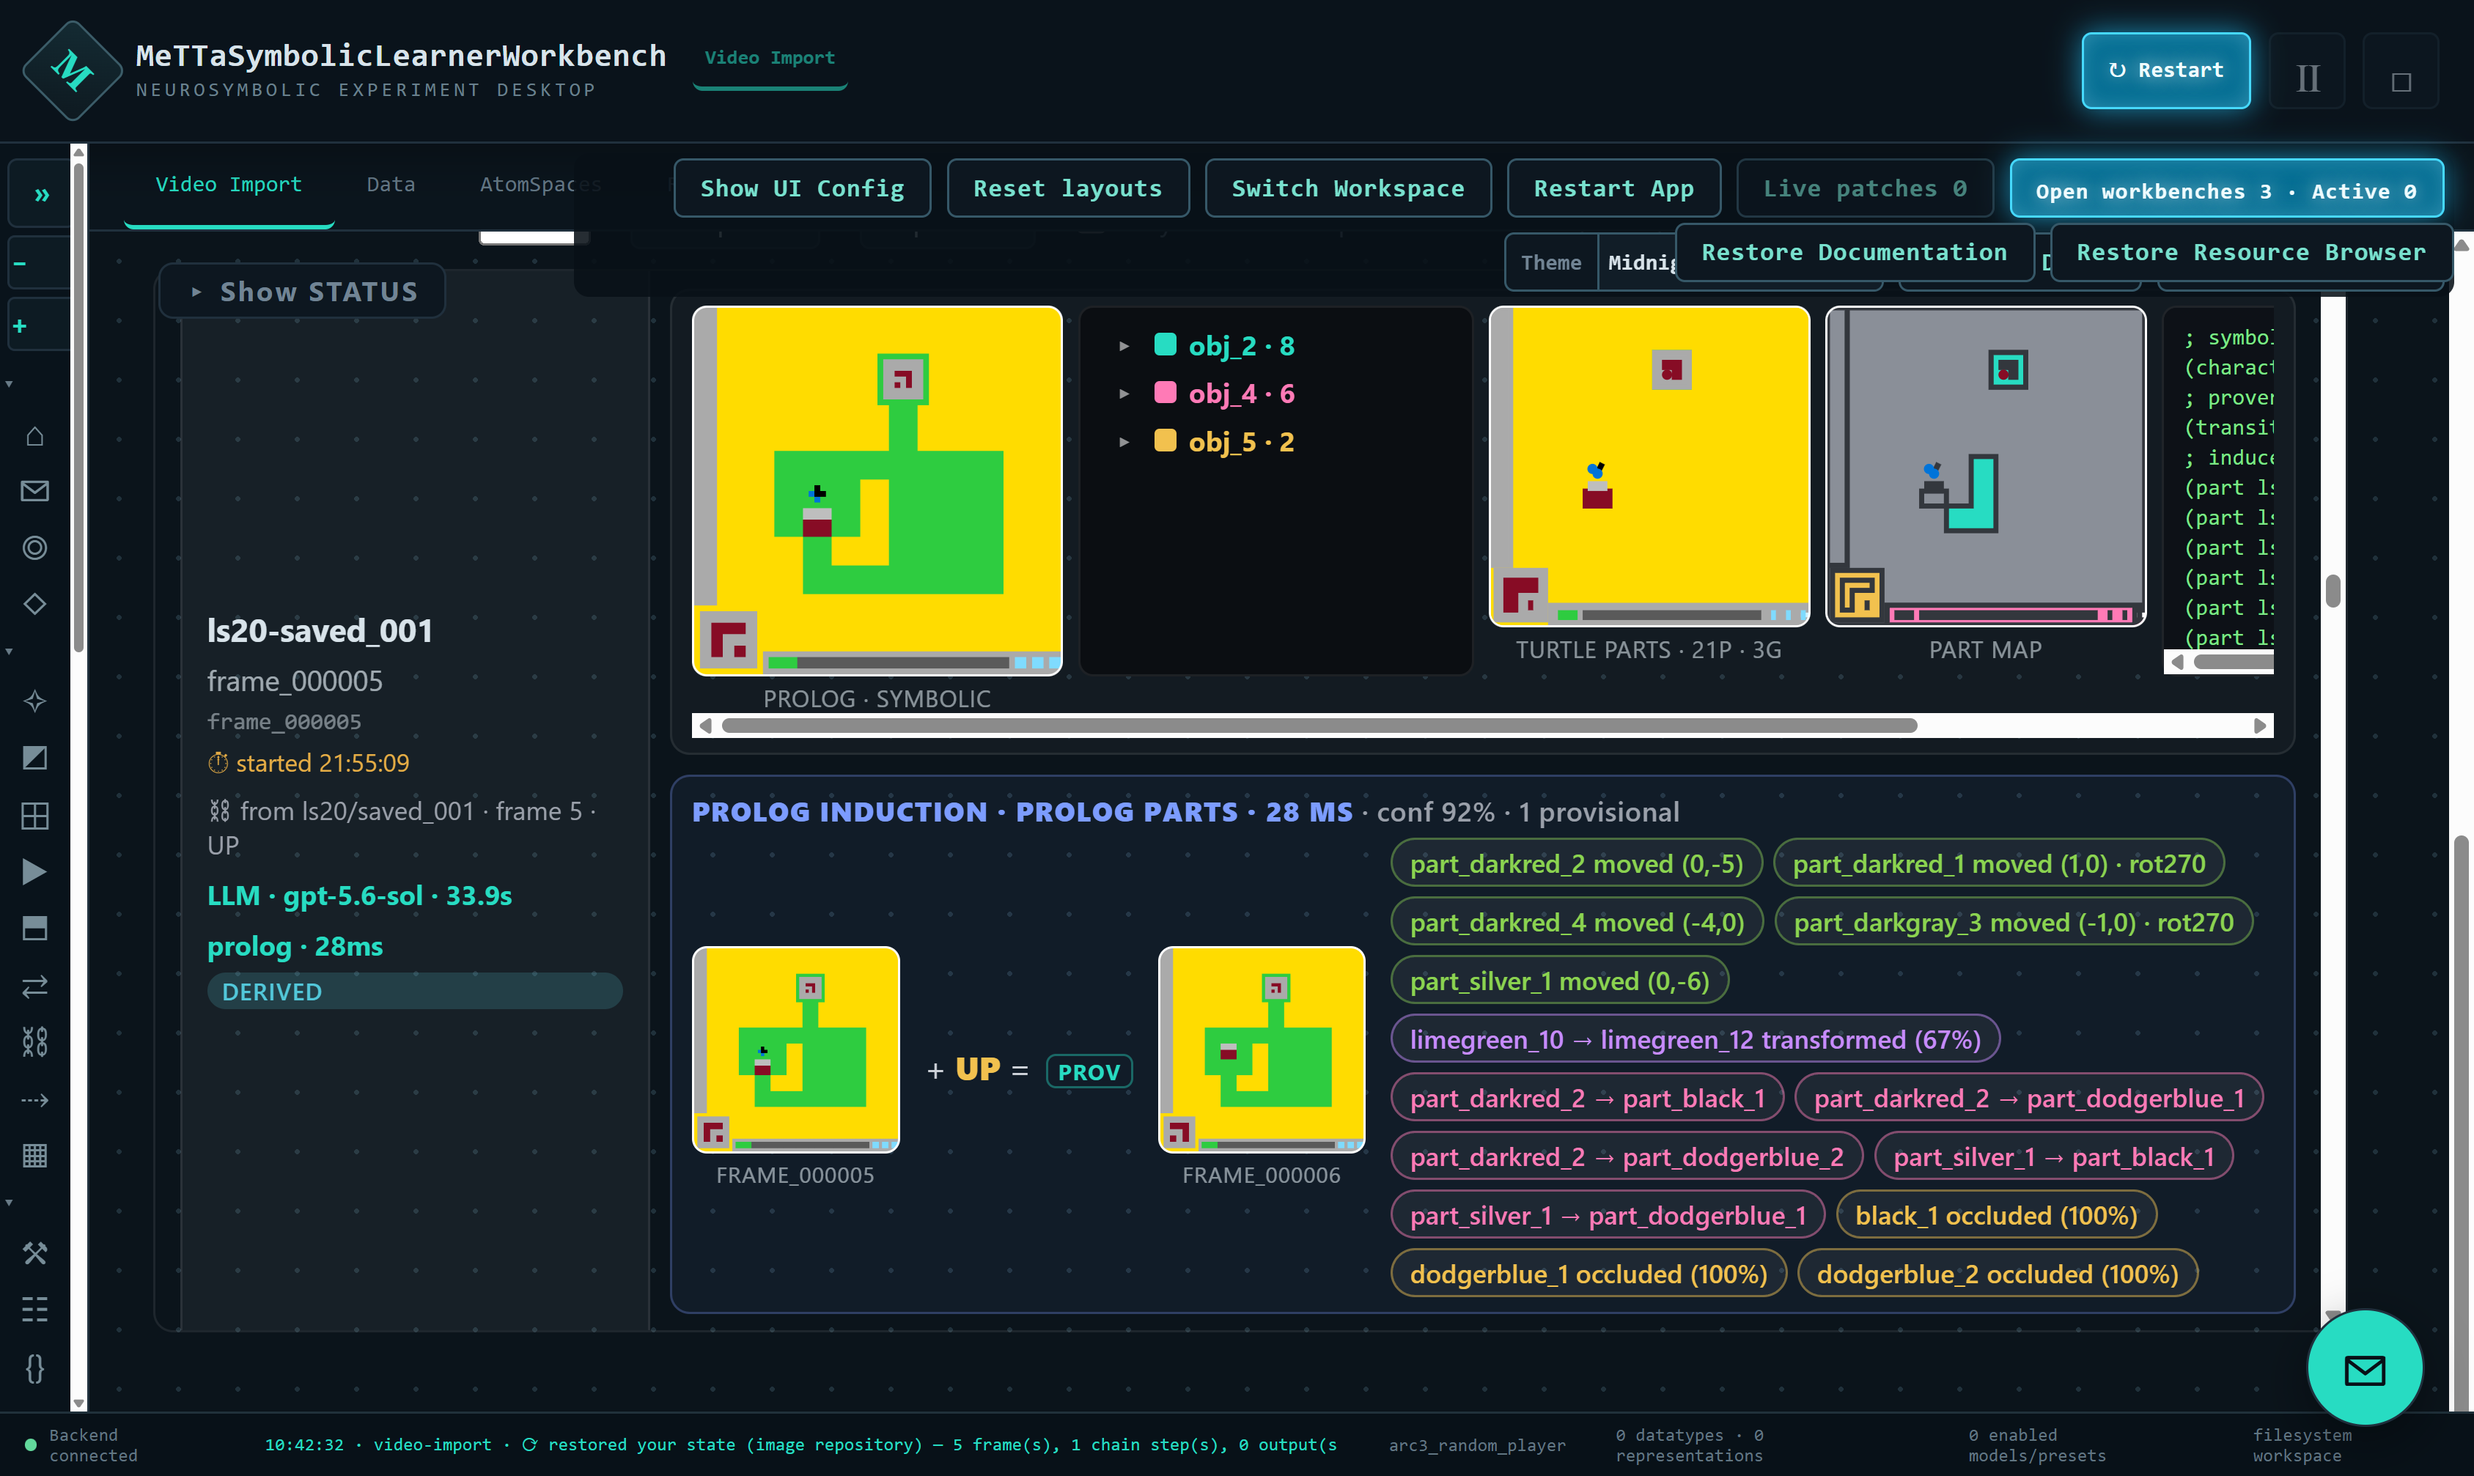
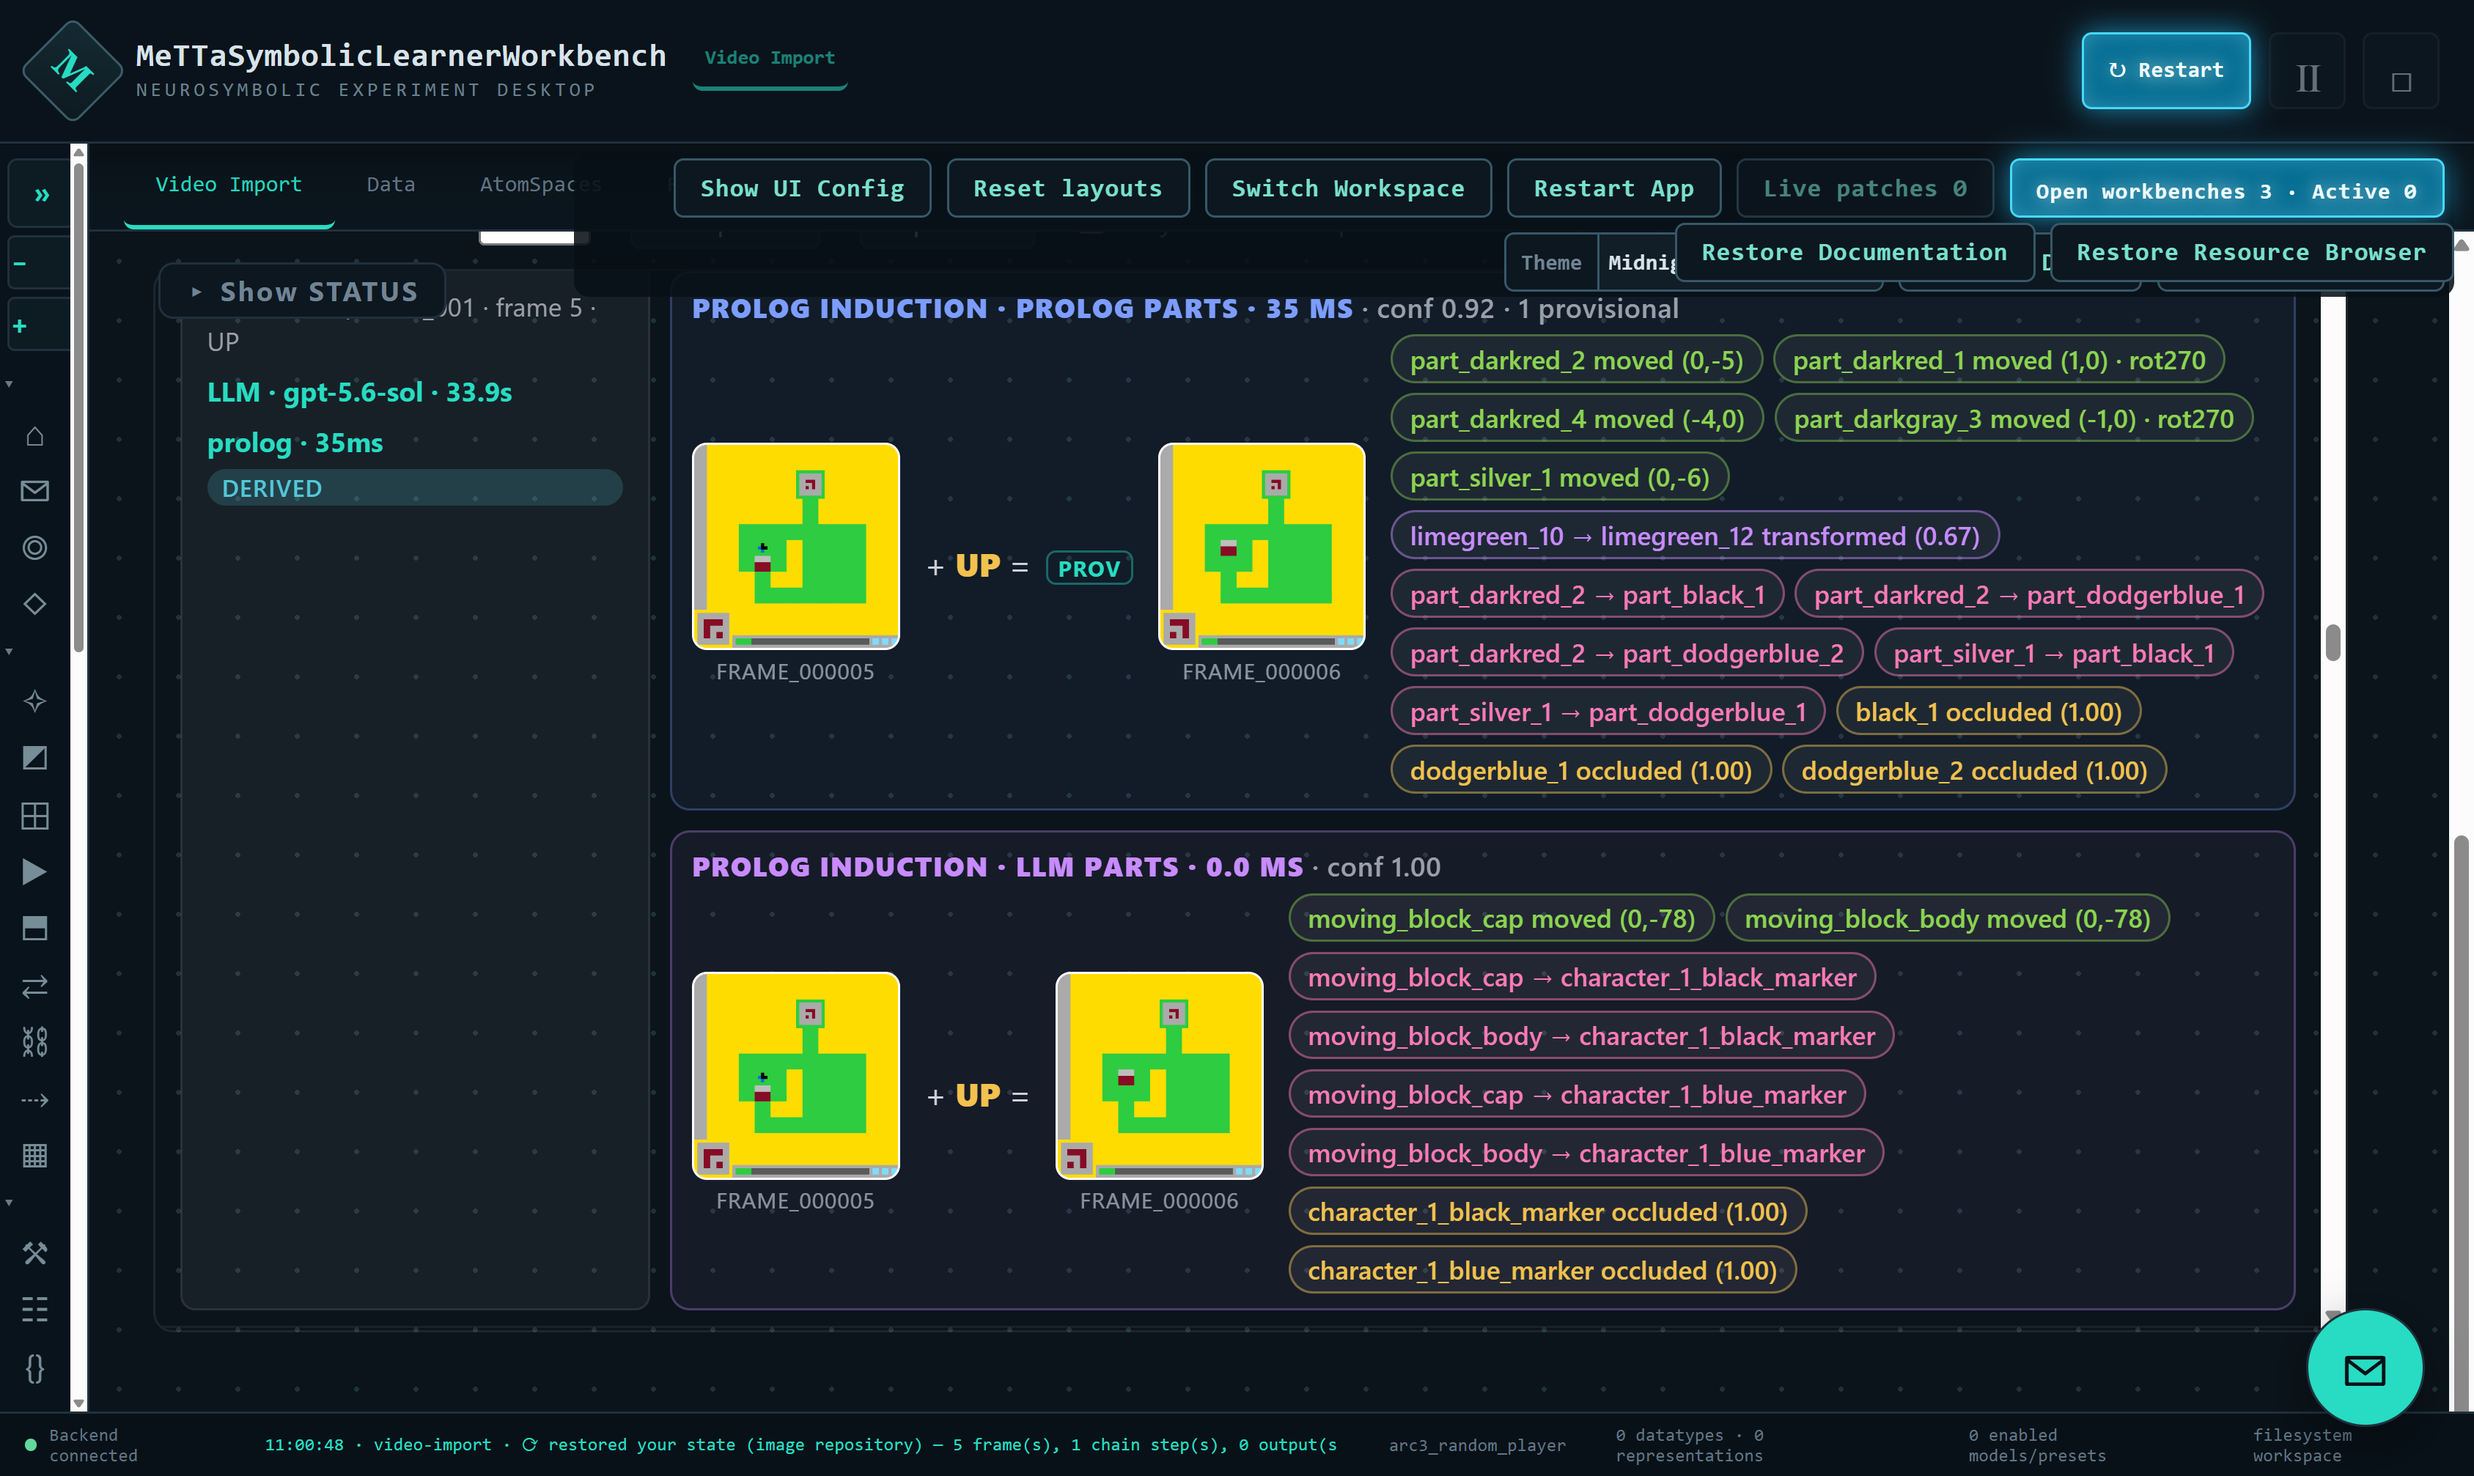
Scores as 0.0-1.0 + confidence floor; SoW probability figure
- Report all induction scores on a 0.0-1.0 scale in the UI (metta already stored 0.0-1.0).
- Add a base-rate confidence floor (0.10) for evidence-based verdicts (gone/consumed_or_taken/new) so a clip-boundary verdict with no look-ahead reads as honest uncertainty (0.10) instead of a misleading 0.00 - applied in both symbolic_arc (baked) and the live frontend classifier.
- SoW: update Figure 1 caption to 0.0-1.0 and the rotating-ant/actuator narrative; add Figure 2 (vision_induction_probability.png) showing scored events (back 1.00, gone 0.10, new 1.00) and per-row reports, and the relationship-probability-toward-1.0 story.

diff --git a/workbench/frontend/src/components/VideoImportPage.tsx b/workbench/frontend/src/components/VideoImportPage.tsx
@@ -525,6 +525,9 @@ function turtleCentroid(t: any): [number, number] | null {
 // of patience before a vanish is committed; <=0 = the whole sequence). Used by
 // BOTH induction rows so the live horizon slider re-resolves them identically.
 type FrameMap = Map<string, [number, number]>;
+// Minimum confidence floor for evidence-based verdicts (weak base-rate prior),
+// mirrored from symbolic_arc._CONF_FLOOR, so a boundary verdict never reads 0.00.
+const CONF_FLOOR = 0.1;
 function classifyPerm(frames: FrameMap[], i: number, interactedTargets: Set<string>, horizon: number, near: number) {
   const n = frames.length;
   const A = frames[i] || new Map(); const B = frames[i + 1] || new Map();
@@ -534,9 +537,9 @@ function classifyPerm(frames: FrameMap[], i: number, interactedTargets: Set<stri
   // confidence = fraction of the horizon window actually observed (forward for
   // gone/consumed, backward for new); observed verdicts are certain (1).
   const remFwd = (n - 1) - (i + 1); const reqFwd = horizon > 0 ? horizon : remFwd;
-  const confFwd = reqFwd > 0 ? Math.min(1, Math.min(reqFwd, remFwd) / reqFwd) : 0;
+  const confFwd = Math.max(CONF_FLOOR, reqFwd > 0 ? Math.min(1, Math.min(reqFwd, remFwd) / reqFwd) : 0);
   const remBwd = i + 1; const reqBwd = horizon > 0 ? horizon : remBwd;
-  const confBwd = reqBwd > 0 ? Math.min(1, Math.min(reqBwd, remBwd) / reqBwd) : 0;
+  const confBwd = Math.max(CONF_FLOOR, reqBwd > 0 ? Math.min(1, Math.min(reqBwd, remBwd) / reqBwd) : 0);
   const disappeared = [...A.keys()].filter((id) => !B.has(id));
   const appeared = [...B.keys()].filter((id) => !A.has(id));
   const out = { occluded: [] as Array<{ name: string; conf: number }>, noLongerOccluded: [] as Array<{ name: string; conf: number }>, consumedOrTaken: [] as Array<{ name: string; conf: number }>, gone: [] as Array<{ name: string; conf: number }>, appeared: [] as Array<{ name: string; conf: number }>, transformed: [] as Array<{ from: string; to: string; conf: number }> };
@@ -6830,7 +6833,7 @@ export function VideoImportPage({
                                   const renderRow = (rowKey: string, label: string, cls: string, ev: IndEvent | null, loading: boolean, actLabel: string, fromText: boolean) => {
                                     const nfacts = ev ? (ev.moved.length + ev.transformed.length + ev.interacted.length + ev.occluded.length + ev.noLongerOccluded.length + ev.consumedOrTaken.length + ev.gone.length + ev.appeared.length) : 0;
                                     const st = ev ? indStats(ev) : { n: 0, mean: 1, provisional: 0 };
-                                    const pct = (c: number) => `${Math.round(c * 100)}%`;
+                                    const pct = (c: number) => c.toFixed(2);
                                     return (
                                       <div className={`video-import-reduce-induction ${cls}`} key={rowKey}>
                                         <div className="video-import-reduce-indlabel">{label}

diff --git a/workbench/server/generative_vision/prolog/symbolic_arc.py b/workbench/server/generative_vision/prolog/symbolic_arc.py
@@ -639,6 +639,10 @@ def extract_frame(png_path: str, char: str, partner_path: str | None = None,
 # larger than the default so the live slider can look further than the bake.
 DEFAULT_OCCLUSION_HORIZON = 4
 _ID_RETENTION = 30
+# Minimum confidence floor for evidence-based verdicts (gone / consumed_or_taken
+# / new): even with no look-ahead left at a clip boundary, a verdict keeps a weak
+# base-rate prior rather than reading a misleading exact 0.00.
+_CONF_FLOOR = 0.1
 
 
 def extract_sequence(frame_paths: list[str], char: str,
@@ -693,10 +697,10 @@ def _classify_permanence(results: list[dict], char: str,
         # without it existing (backward). Observed verdicts (occluded / back) = 1.
         rem_fwd = (n - 1) - (i + 1)
         req_fwd = horizon if horizon > 0 else rem_fwd
-        conf_fwd = round(min(req_fwd, rem_fwd) / req_fwd, 2) if req_fwd > 0 else 0.0
+        conf_fwd = round(max(_CONF_FLOOR, min(req_fwd, rem_fwd) / req_fwd), 2) if req_fwd > 0 else _CONF_FLOOR
         rem_bwd = i + 1
         req_bwd = horizon if horizon > 0 else rem_bwd
-        conf_bwd = round(min(req_bwd, rem_bwd) / req_bwd, 2) if req_bwd > 0 else 0.0
+        conf_bwd = round(max(_CONF_FLOOR, min(req_bwd, rem_bwd) / req_bwd), 2) if req_bwd > 0 else _CONF_FLOOR
         # transformed: pair a vanishing part (that never returns) with a co-located
         # appearing part (never seen before) -> same thing changed form.
         used_app: set = set()

diff --git a/workbench/docs/design/SOW_VISION_AND_WORKBENCH.md b/workbench/docs/design/SOW_VISION_AND_WORKBENCH.md
@@ -143,17 +143,36 @@ the LLM producer's output as its input.
 
 ![Dual-line induction with per-event confidence: the deterministic Prolog
 induction of one ARC transition (frame_000005 + UP = frame_000006), showing
-moved / transformed / interacted / occluded events, each with a confidence, plus
-the per-row report "conf 92% · 1 provisional".](assets/vision_induction_dual_line.png)
+moved / transformed / interacted / occluded events, each with a 0.0-1.0 score,
+plus the per-row report "conf 0.92 · 1 provisional".](assets/vision_induction_dual_line.png)
 
-*Figure: a live induction row from the workbench. The deterministic (Prolog)
+*Figure 1: a live induction row from the workbench. The deterministic (Prolog)
 induction of the transition `frame_000005 + UP = frame_000006` reports `moved`
-(including a `rot270` rotation), a `transformed` event at 67% confidence,
-spatial `interacted` links, and three `occluded` verdicts at 100% (the markers
-that vanish here provably return next frame). The row header states the imported
-provenance action (`UP`, tagged `prov`), the induction time (`28 ms`), and the
-aggregate statistical report (`conf 92% · 1 provisional`). A sibling row runs the
-same deterministic inducer over the LLM's objectification for direct comparison.*
+(including a `rot270` rotation — the "rotating ant"), a `transformed` event at
+score 0.67, spatial `interacted` links onto the actuator markers, and three
+`occluded` verdicts at 1.0 (the markers that vanish here provably return the next
+frame). The row header states the imported provenance action (`UP`, tagged
+`prov`), the induction time (`28 ms`), and the aggregate statistical report
+(`conf 0.92 · 1 provisional`). Scores are reported on a 0.0-1.0 scale. A sibling
+row runs the same deterministic inducer over the LLM's objectification for direct
+comparison.*
+
+![Inductive probability across a transition: both induction rows for a late clip
+transition, with scored events (back 1.00, gone 0.10, new 1.00) and per-row
+reports (Prolog conf 0.58 / 7 provisional, LLM conf 0.70 / 2
+provisional).](assets/vision_induction_probability.png)
+
+*Figure 2: inductive probability in action. Every verdict carries a 0.0-1.0
+score that reflects how much evidence supports it. Near the end of a clip the
+forward look-ahead runs out, so `gone` verdicts drop toward a small base-rate
+floor of 0.10 (honest uncertainty rather than a misleading 0.00), while a part
+that provably returns is `back` at 1.0 and a never-before-seen part is `new` at
+1.0. The per-row report (`conf 0.58 · 7 provisional`) summarizes how settled the
+whole transition is. As the same relationship recurs across frames — the rotating
+ant landing on the actuator plus sign, the plus then vanishing — the induced rule
+linking them accrues support and its probability of being a real relationship
+climbs toward 1.0. Both the Prolog line and the LLM line report the same way, so
+their scores are directly comparable.*
 
 ### Scope of Work
 
